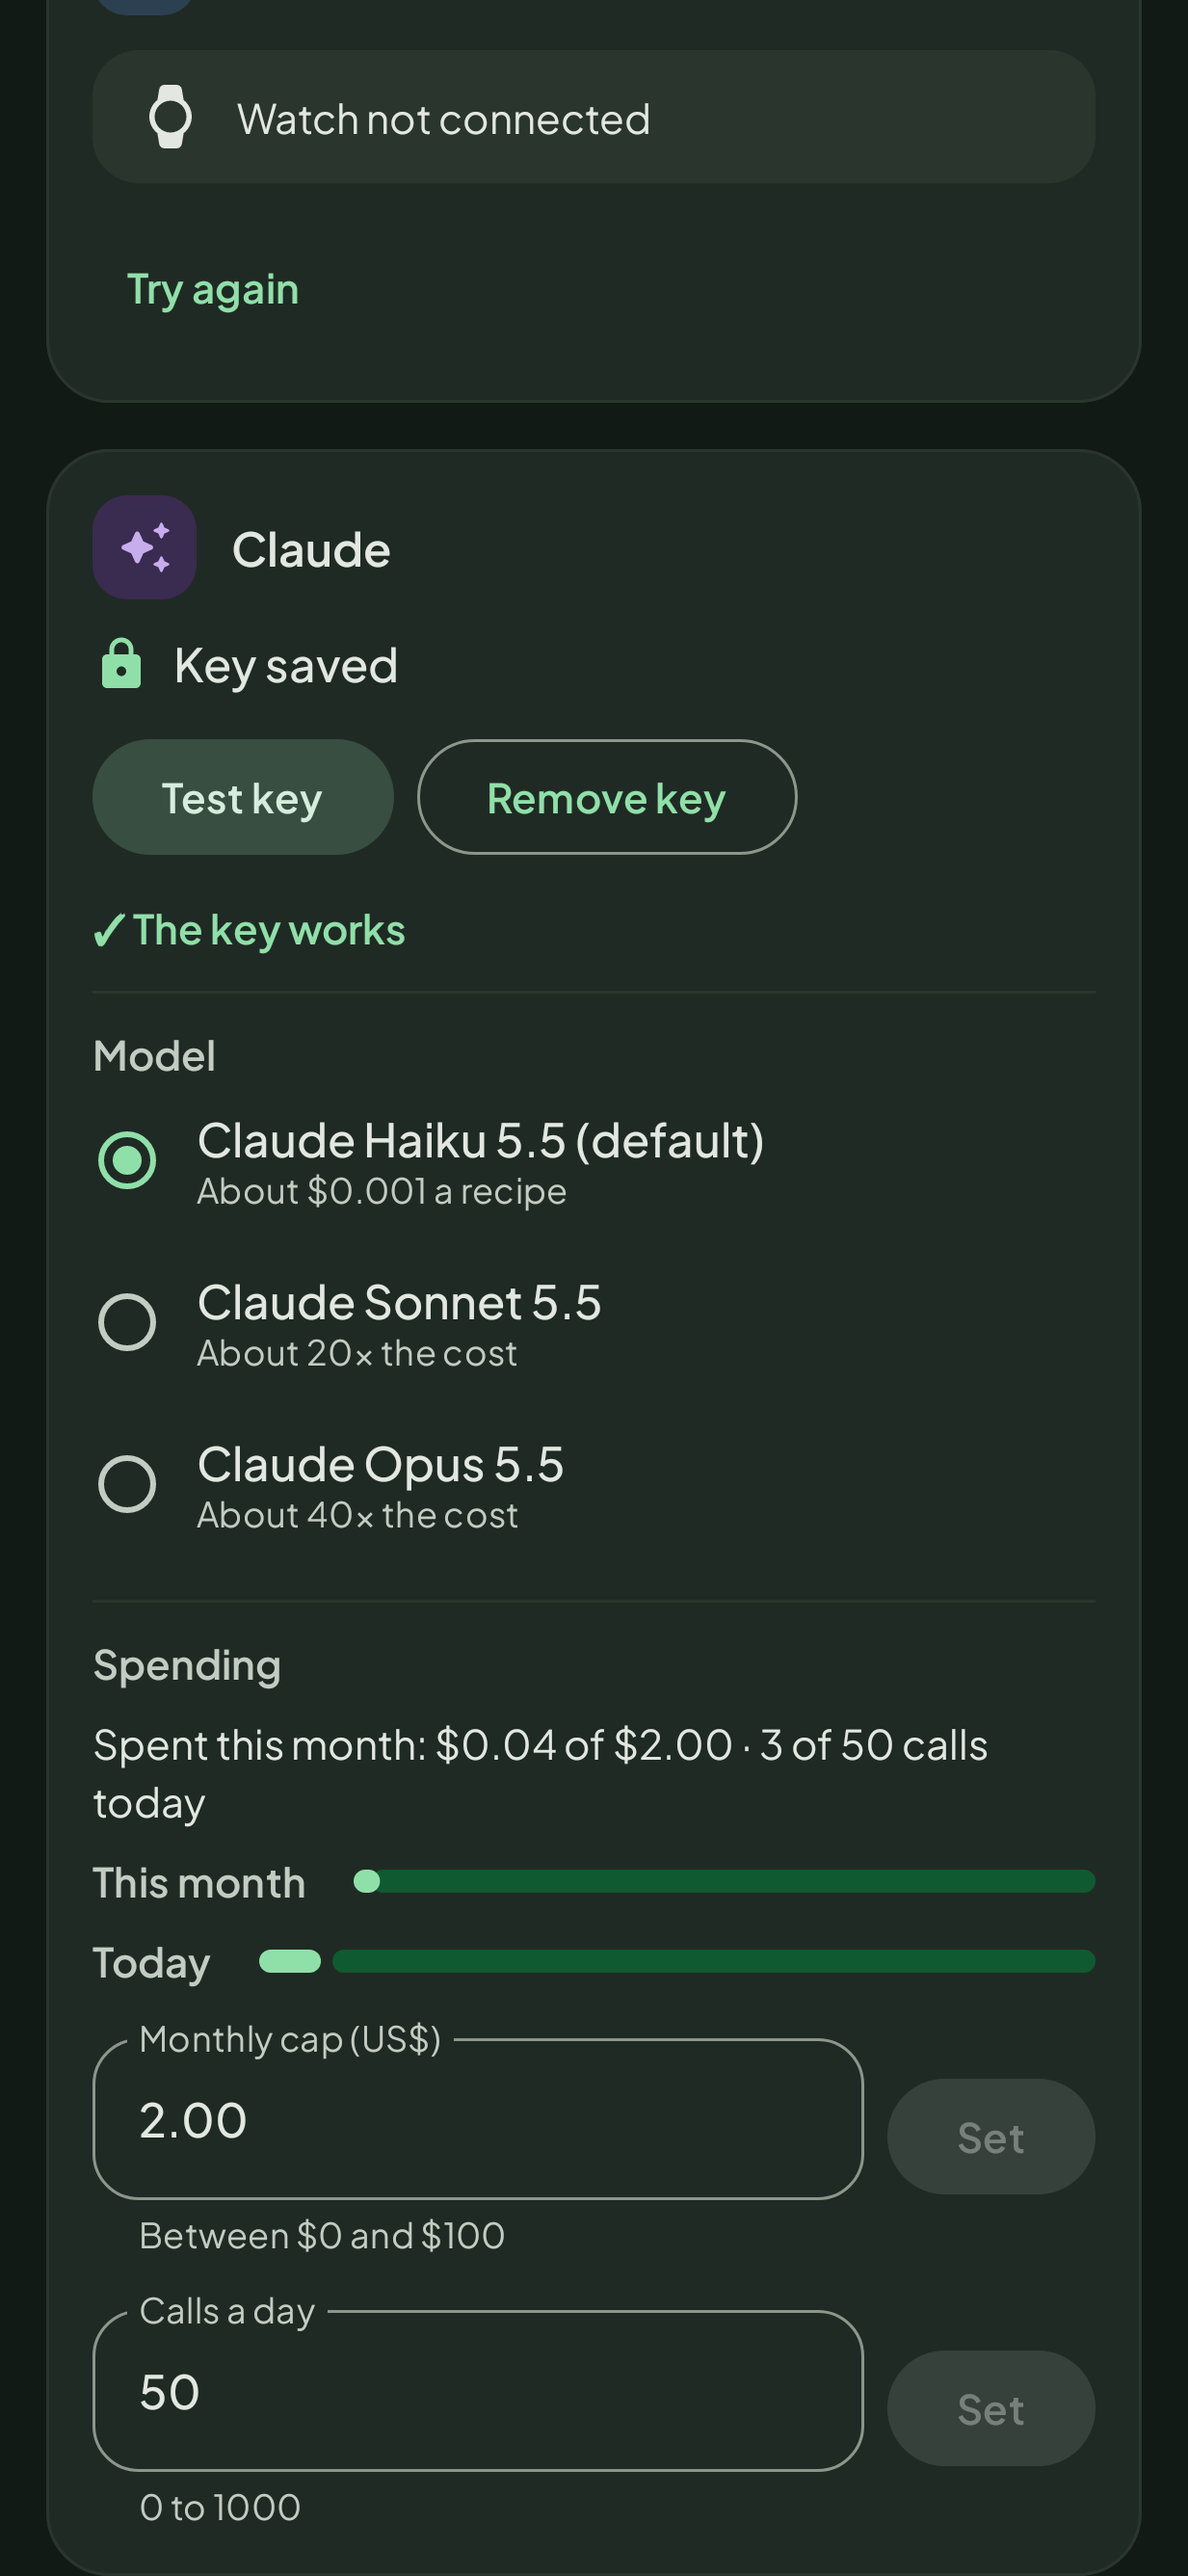
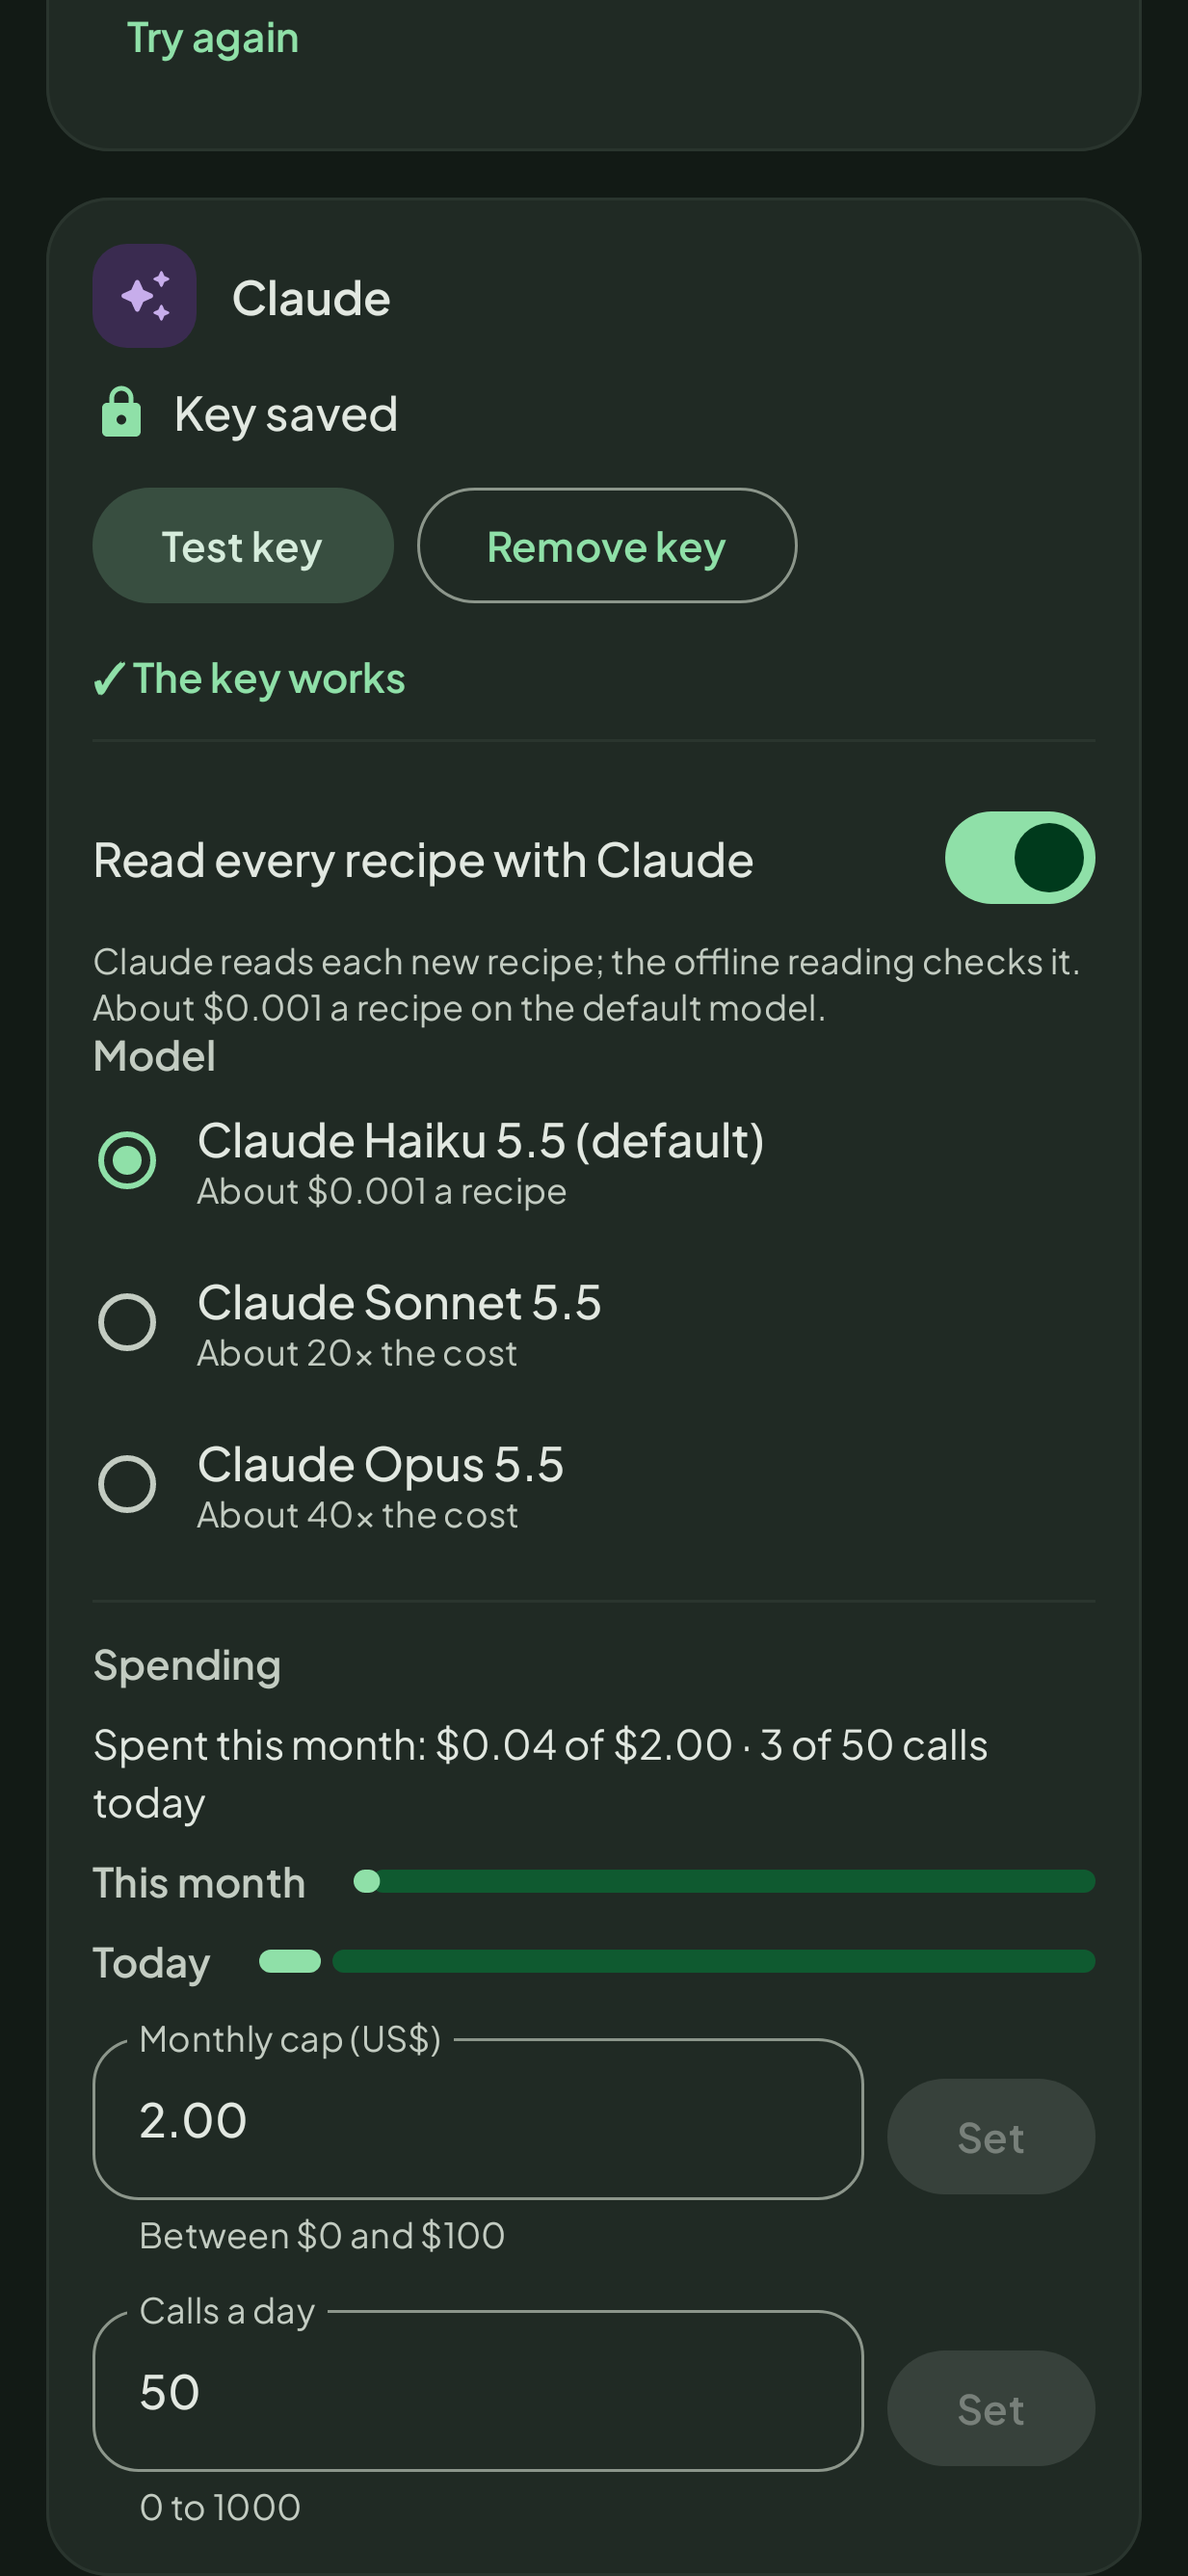
[W.1] Claude reads every new recipe by default; only when unsure is a setting
Claude-Session: https://claude.ai/code/session_016z2Qp5Lw5mkgJm6Jzuit5a

Changed region(s): [[0.0616, 0.0, 0.9246, 0.4037], [0.8013, 0.3105, 0.9246, 0.3726], [0.4006, 0.1863, 0.6164, 0.2174]]

diff --git a/android/app/src/test/java/com/robert4lyf/hypershop/importing/ImporterTest.kt b/android/app/src/test/java/com/robert4lyf/hypershop/importing/ImporterTest.kt
@@ -57,6 +57,7 @@ class ImporterTest {
         val claude = MockWebServer().apply { start() }
         try {
             val c = TestContainer.create(claude = claude, key = "sk-ant-test")
+            runBlocking { c.settings.setClaudeAlways(false) }
             val m = ClaudeModel.HAIKU
             // Every line clear: read offline, nothing pending, no request.
             val clearLines = listOf("200g plain flour", "2 eggs", "1 tsp salt")
@@ -81,5 +82,44 @@ class ImporterTest {
         } finally {
             claude.shutdown()
         }
+    }
+
+    @Test
+    fun byDefaultClaudeReadsEveryRecipeButOnlyInTheForeground() {
+        // W.1: Claude reads fresh recipes better than the rules (U.1), so with a key it reads them all.
+        val claude = MockWebServer().apply { start() }
+        try {
+            val c = TestContainer.create(claude = claude, key = "sk-ant-test")
+            val m = ClaudeModel.HAIKU
+            val clearLines = listOf("200g plain flour", "2 eggs", "1 tsp salt")
+            // A share in the background: nothing is spent, the review will ask.
+            val later = runBlocking { c.importer.fromLines(clearLines, "Pancakes", allowClaude = false, model = m) }
+            assertTrue(later.claudePending)
+            assertFalse(later.claudeSkipped)
+            assertEquals(0, claude.requestCount)
+            // The review in the foreground: Claude reads it, clear lines and all.
+            claude.enqueue(MockResponse().setBody(ok))
+            val now = runBlocking { c.importer.fromLines(clearLines, "Pancakes", allowClaude = true, model = m) }
+            assertFalse(now.claudeSkipped)
+            assertEquals(1, claude.requestCount)
+        } finally {
+            claude.shutdown()
+        }
+    }
+
+    @Test
+    fun withNoKeyTheRulesReadAloneAndNothingIsPending() {
+        val c = TestContainer.create()
+        val r =
+            runBlocking {
+                c.importer.fromLines(
+                    listOf("200g plain flour", "2 eggs"),
+                    "Pancakes",
+                    allowClaude = true,
+                    model = ClaudeModel.HAIKU,
+                )
+            }
+        assertTrue(r.claudeSkipped)
+        assertFalse(r.claudePending)
     }
 }

diff --git a/android/app/src/main/java/com/robert4lyf/hypershop/settings/Settings.kt b/android/app/src/main/java/com/robert4lyf/hypershop/settings/Settings.kt
@@ -39,6 +39,9 @@ class Settings(
     val monthlyCapUsd: Flow<Double> = store.data.map { it[MONTHLY_CAP] ?: SpendGuard.DEFAULT_MONTHLY_CAP_USD }
     val dailyCalls: Flow<Int> = store.data.map { it[DAILY_CALLS] ?: SpendGuard.DEFAULT_DAILY_CALLS }
     val watchVibrate: Flow<Boolean> = store.data.map { it[WATCH_VIBRATE] ?: true }
+
+    /** W.1: with a key, Claude reads every new recipe (the rules read first and check it); off, only when the rules are unsure. */
+    val claudeAlways: Flow<Boolean> = store.data.map { it[CLAUDE_ALWAYS] ?: true }
     val debugLog: Flow<Boolean> = store.data.map { it[DEBUG_LOG] ?: false }
 
     /**
@@ -80,6 +83,8 @@ class Settings(
 
     suspend fun setWatchVibrate(on: Boolean) = store.edit { it[WATCH_VIBRATE] = on }
 
+    suspend fun setClaudeAlways(on: Boolean) = store.edit { it[CLAUDE_ALWAYS] = on }
+
     suspend fun setDebugLog(on: Boolean) = store.edit { it[DEBUG_LOG] = on }
 
     suspend fun setListView(v: ListView) = store.edit { it[LIST_VIEW] = v.name }
@@ -119,6 +124,7 @@ class Settings(
         val MONTHLY_CAP = doublePreferencesKey("claude_monthly_cap_usd")
         val DAILY_CALLS = intPreferencesKey("claude_daily_calls")
         val WATCH_VIBRATE = booleanPreferencesKey("watch_vibrate")
+        val CLAUDE_ALWAYS = booleanPreferencesKey("claude_always")
         val DEBUG_LOG = booleanPreferencesKey("debug_log")
         val LIST_CATEGORISED = booleanPreferencesKey("list_categorised")
         val LIST_VIEW = stringPreferencesKey("list_view")

diff --git a/android/app/src/main/java/com/robert4lyf/hypershop/importing/Importer.kt b/android/app/src/main/java/com/robert4lyf/hypershop/importing/Importer.kt
@@ -56,6 +56,8 @@ class Importer(
     private val rules: RuleParser,
     private val claude: GuardedClaude?,
     private val hasKey: suspend () -> Boolean,
+    /** W.1: Claude reads every recipe it may, not only those the rules were unsure of. */
+    private val alwaysClaude: suspend () -> Boolean = { false },
 ) {
     suspend fun fromUrl(
         url: String,
@@ -130,8 +132,10 @@ class Importer(
         val keyed = claude != null && hasKey()
         val photo = base.photo?.takeIf { base.rawLines.isEmpty() }
         if (photo != null && !keyed) return ruled.copy(claudePending = false, error = ImportError.PHOTO_NEEDS_KEY)
-        // The gate: structured lines the rules read cleanly need no second opinion (and cost nothing).
-        if (photo == null && base.rawLines.isNotEmpty() && !base.askClaude && !Uncertainty.needsClaude(ruled.lines)) {
+        // The gate: structured lines the rules read cleanly need no second opinion (and cost nothing), unless Claude
+        // is set to read every recipe (W.1, the default: it reads fresh recipes better than the rules, measured in U.1).
+        val clear = photo == null && base.rawLines.isNotEmpty() && !base.askClaude && !Uncertainty.needsClaude(ruled.lines)
+        if (clear && !(keyed && alwaysClaude())) {
             return ruled.copy(claudePending = false, claudeSkipped = true)
         }
         val input =

diff --git a/android/app/src/main/java/com/robert4lyf/hypershop/ui/settings/SettingsViewModel.kt b/android/app/src/main/java/com/robert4lyf/hypershop/ui/settings/SettingsViewModel.kt
@@ -41,6 +41,7 @@ data class SettingsUi(
     val staples: List<String> = emptyList(),
     val aisles: List<AisleCode> = emptyList(),
     val watchVibrate: Boolean = true,
+    val claudeAlways: Boolean = true,
     /** The watch link in words (Settings › Watch). */
     val watchStatus: String = "",
     /** The link is down or reports a problem, so "Try again" is offered. */
@@ -115,6 +116,7 @@ class SettingsViewModel(
         watch(s.monthlyCapUsd) { copy(monthlyCapUsd = it) }
         watch(s.dailyCalls) { copy(dailyCalls = it) }
         watch(s.watchVibrate) { copy(watchVibrate = it) }
+        watch(s.claudeAlways) { copy(claudeAlways = it) }
         val link = combine(c.watchLink.state, c.watchLink.problem) { st, why -> watchStatus(st, why) to watchCanRetry(st, why) }
         watch(link) { (text, can) -> copy(watchStatus = text, watchCanRetry = can) }
         watch(s.debugLog) { copy(debugLog = it, logLines = if (it) c.log.snapshot().takeLast(LOG_LINES) else emptyList()) }
@@ -352,6 +354,8 @@ class SettingsViewModel(
         }
 
     fun setWatchVibrate(on: Boolean) = viewModelScope.launch { c.settings.setWatchVibrate(on) }
+
+    fun setClaudeAlways(on: Boolean) = viewModelScope.launch { c.settings.setClaudeAlways(on) }
 
     /** "Try again": the link starts over from wherever it stopped. */
     fun retryWatch() = c.watchLink.retry()

diff --git a/android/app/src/main/java/com/robert4lyf/hypershop/ui/settings/SettingsRoute.kt b/android/app/src/main/java/com/robert4lyf/hypershop/ui/settings/SettingsRoute.kt
@@ -138,6 +138,7 @@ data class SettingsActions(
     val onRemoveKey: () -> Unit = {},
     val onDismissKeyLost: () -> Unit = {},
     val onModel: (ClaudeModel) -> Unit = {},
+    val onClaudeAlways: (Boolean) -> Unit = {},
     val onMonthlyCap: (String) -> Boolean = { true },
     val onDailyCalls: (String) -> Boolean = { true },
     val onDebugLog: (Boolean) -> Unit = {},
@@ -192,6 +193,7 @@ fun SettingsRoute(
             onRemoveKey = { vm.removeKey() },
             onDismissKeyLost = { vm.dismissKeyLost() },
             onModel = { vm.setModel(it) },
+            onClaudeAlways = { vm.setClaudeAlways(it) },
             onMonthlyCap = vm::setMonthlyCap,
             onDailyCalls = vm::setDailyCalls,
             onDebugLog = { vm.setDebugLog(it) },
@@ -650,6 +652,14 @@ private fun ModelSection(
     actions: SettingsActions,
 ) {
     Column {
+        SwitchRow("Read every recipe with Claude", ui.claudeAlways, actions.onClaudeAlways)
+        Hint(
+            if (ui.claudeAlways) {
+                "Claude reads each new recipe; the offline reading checks it. About $0.001 a recipe on the default model."
+            } else {
+                "Claude reads a recipe only when the offline reading is unsure of a line."
+            },
+        )
         SectionLabel("Model")
         for (m in ClaudeModel.entries) {
             Row(

diff --git a/android/app/src/test/java/com/robert4lyf/hypershop/importing/ImportWorkerTest.kt b/android/app/src/test/java/com/robert4lyf/hypershop/importing/ImportWorkerTest.kt
@@ -53,10 +53,12 @@ class ImportWorkerTest {
         )
 
     @Test
-    fun aClearRecipeIsReadByRulesAloneAndNeverNeedsClaude() =
+    fun setToOnlyWhenUnsureAClearRecipeIsReadByRulesAlone() =
         runBlocking {
-            // Every line of the cake is read without doubt: the gate keeps the rule parser's reading, key or no key.
+            // Every line of the cake is read without doubt: with Claude set to read only when unsure (W.1), the gate
+            // keeps the rule parser's reading.
             val c = TestContainer.create(pages, claude, key = "sk-ant-test")
+            c.settings.setClaudeAlways(false)
             c.reviewGate.acquire()
             servePage()
             val id = c.importJobs.enqueue(ImportInput(pages.url("/recipes/easy-chocolate-cake").toString(), "Cake"))

diff --git a/android/app/src/main/java/com/robert4lyf/hypershop/di/AppContainer.kt b/android/app/src/main/java/com/robert4lyf/hypershop/di/AppContainer.kt
@@ -137,6 +137,7 @@ class AppContainer(
             rules = ruleParser,
             claude = claude,
             hasKey = { apiKeyStore.get() != null },
+            alwaysClaude = { settings.claudeAlways.first() },
         )
 
     val importJobs = ImportJobs(db.dao(), workManager, clock)

diff --git a/PROGRESS.md b/PROGRESS.md
@@ -253,3 +253,4 @@ Run 2 stops here. The yes/no checks (install, probe, sync, offline, memory, glan
 ## Step W — from "parsed right" to "bought right" (plan: docs/plans/step-w.md)
 
 - [x] W.0a The list measured, not the parse: `testdata/eval/basket-2026.json`, 15 real recipes (8 UK, 7 US/AU; 182 basket entries) from pages in no other set, each labelled as a UK shopper would buy it — the item, the ways it is normally bought (each / weight / jar / tin / pack / bottle / bunch / presence) and an acceptable range — by a separate agent from the pages alone, before any W change, with its guide and every judgement call in `basket-2026-SOURCES.md`
+- [x] W.1 Claude reads every new recipe when a key is set (Settings › "Read every recipe with Claude", on by default; off is the old "only when the offline reading is unsure"). Measured in U.1: Claude Haiku read 126 of 135 fresh lines right against the rules' 113, at about $0.001 a recipe. What stays true: the rules read first and are the offline/no-key fallback and the cross-check; Claude is still called only from the review in the foreground (a share in the background is left pending, nothing spent); the spend guard applies — check: `ImporterTest.byDefaultClaudeReadsEveryRecipeButOnlyInTheForeground`, `…withNoKey…`, the gate tests set to "only when unsure"
